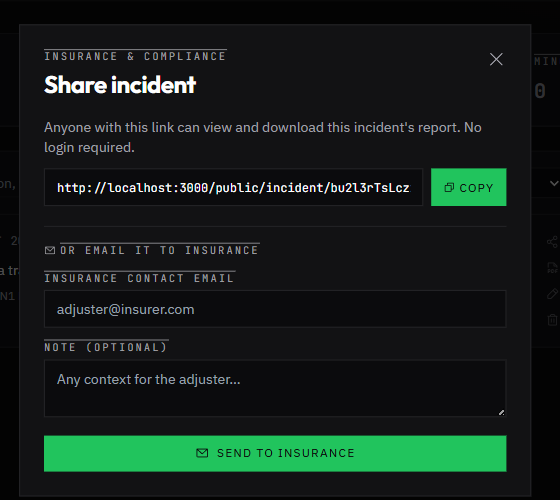
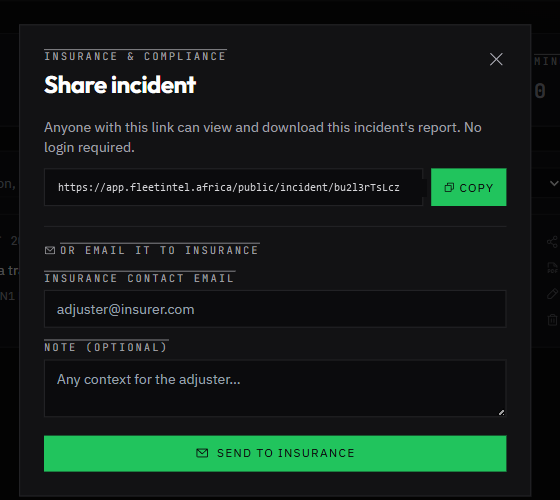
Constrain the marketing site's measure, rhythm and hero figures
Line length was the main problem: 8 of 16 body paragraphs ran past 85
characters a line and the worst hit ~153, because section headings
carried a max-width while the paragraphs under them did not. Nothing
capped the page either, so copy kept widening with the viewport --
1223px at a 1440px window, 1703px at 1920px. Every section wrapper now
sits in a 1440px shell and body copy is capped in ch, which brings the
worst case to 82 characters and holds it there at any window size.

Constraining the measure left "Why FleetIntel" with an empty right half,
which read as a gap rather than breathing room next to the full-width
feature grid, so its heading moves into its own sticky column.

Vertical rhythm ran on five different values (40/80/96/112px); it now
uses two -- 112px for sections, 48px for the industries strip.

The hero's KPI panel counted up and then back down to zero every six
seconds, so roughly 40% of the time a fleet-cost product was advertising
"R213 total monthly cost" and "0% utilization" -- it was captured that
way during review. It now ramps once and holds the settled figures.

Also: the "Share incident" screenshot showed a http://localhost:3000
link at full size on the live site; it now shows the real app domain.
The logo's sub-10px tagline is hidden below sm where it was illegible,
and the mobile scroll cue moves below the hero graphic, since pointing
"down" from above it was pointing at content still on screen.

Changed region(s): [[0.0911, 0.36, 0.7286, 0.39]]

diff --git a/marketing/src/components/DashboardMotionGraphic.jsx b/marketing/src/components/DashboardMotionGraphic.jsx
@@ -2,14 +2,15 @@ import { useEffect, useRef } from "react";
 
 // A live-rendered stand-in for a hero "video" -- real dashboard-shaped motion (KPI tiles counting
 // up, gauges filling, a trend line drawing in) rather than an actual video file. No file to record,
-// encode, host, or keep in sync with the real app; loops perfectly by construction; effectively free
-// to load. Values are illustrative UI chrome, not asserted as real product claims (matches the
-// existing signature cost-spike card's "+18% vs last month" treatment) -- this is a motion graphic
-// of the kind of thing the dashboard shows, not a screenshot standing in as evidence.
+// encode, host, or keep in sync with the real app; effectively free to load. Values are illustrative
+// UI chrome, not asserted as real product claims (matches the existing signature cost-spike card's
+// "+18% vs last month" treatment) -- this is a motion graphic of the kind of thing the dashboard
+// shows, not a screenshot standing in as evidence. They still need to be plausible, though: this is
+// the first number a visitor reads, so it has to look like a real fleet's month.
 //
-// One shared timeline drives everything (count-up, gauge fill, chart draw happen together, then hold,
-// then reset) rather than several independently-looping pieces -- the same "one coordinated effect,
-// not five competing rhythms" reasoning as the rest of this site's motion.
+// One shared timeline drives everything (count-up, gauge fill and chart draw happen together) rather
+// than several independently-looping pieces -- the same "one coordinated effect, not five competing
+// rhythms" reasoning as the rest of this site's motion.
 const TILES = [
   { label: "Total monthly cost", value: 84300, prefix: "R", format: (n) => Math.round(n).toLocaleString(), gauge: 0.62 },
   { label: "Cost per vehicle", value: 3240, prefix: "R", format: (n) => Math.round(n).toLocaleString(), gauge: 0.45 },
@@ -17,10 +18,13 @@ const TILES = [
   { label: "Fleet utilization", value: 87, prefix: "", suffix: "%", format: (n) => Math.round(n), gauge: 0.87 },
 ];
 
-const CYCLE_MS = 6000;
+// Ramps up once on mount and then holds the settled figures, rather than looping back down to zero
+// every few seconds. The loop it replaced spent roughly 40% of each cycle mid-ramp or counting back
+// down, so a visitor arriving at the wrong moment met a fleet-cost product advertising "R213 total
+// monthly cost" and "0% utilization" -- captured exactly that way during a review. The entrance
+// motion is the part worth having; the reset only risked making the product look broken. The status
+// dot keeps pulsing, so the panel still reads as live.
 const RAMP_MS = 1400; // count-up / fill / draw
-const HOLD_MS = 3600; // steady, just the status dot pulsing
-// remainder of CYCLE_MS is a quick fade back to zero before the next loop
 
 const CHART_POINTS = "0,38 14,32 28,34 42,22 56,26 70,14 84,18 100,6";
 
@@ -48,17 +52,8 @@ export default function DashboardMotionGraphic() {
     const easeOut = (t) => 1 - Math.pow(1 - t, 3);
 
     const tick = (now) => {
-      const elapsed = (now - start) % CYCLE_MS;
-      let progress;
-      if (elapsed < RAMP_MS) {
-        progress = easeOut(elapsed / RAMP_MS);
-      } else if (elapsed < RAMP_MS + HOLD_MS) {
-        progress = 1;
-      } else {
-        // quick fade back to 0 to close the loop cleanly
-        const fadeT = (elapsed - RAMP_MS - HOLD_MS) / (CYCLE_MS - RAMP_MS - HOLD_MS);
-        progress = 1 - easeOut(fadeT);
-      }
+      const elapsed = now - start;
+      const progress = elapsed < RAMP_MS ? easeOut(elapsed / RAMP_MS) : 1;
 
       TILES.forEach((t, i) => {
         const v = t.value * progress;
@@ -66,7 +61,7 @@ export default function DashboardMotionGraphic() {
         if (gaugeRefs.current[i]) gaugeRefs.current[i].style.strokeDashoffset = String(100 - t.gauge * progress * 100);
       });
       if (chartRef.current) chartRef.current.style.strokeDashoffset = String(100 - progress * 100);
-      if (dotRef.current) dotRef.current.style.opacity = elapsed < RAMP_MS + HOLD_MS ? String(0.5 + 0.5 * Math.sin(elapsed / 260)) : "0.3";
+      if (dotRef.current) dotRef.current.style.opacity = String(0.5 + 0.5 * Math.sin(elapsed / 260));
 
       raf = requestAnimationFrame(tick);
     };

diff --git a/marketing/src/components/WhyFleetIntel.jsx b/marketing/src/components/WhyFleetIntel.jsx
@@ -18,28 +18,35 @@ const POINTS = [
 export default function WhyFleetIntel() {
   return (
     <section id="why" className="border-b" style={{ borderColor: "var(--color-border)" }}>
-      <div className="px-6 md:px-12 lg:px-20 py-20 md:py-28">
-        <Reveal>
-          <div className="eyebrow mb-3">Why FleetIntel</div>
-          <h2 className="font-display font-bold text-3xl md:text-4xl tracking-tight max-w-xl mb-14">
-            Built for how fleet costing actually happens.
-          </h2>
-        </Reveal>
-        <div className="space-y-10">
-          {POINTS.map((p, i) => (
-            <Reveal key={p.title} delayMs={i * 120}>
-              <div
-                className="group grid md:grid-cols-[auto_1fr] gap-6 md:gap-10 items-start -mx-4 px-4 py-3 rounded-lg transition-colors duration-300 hover:[background:var(--color-surface)]"
-                data-testid={`why-${i}`}
-              >
-                <div className="font-mono text-sm transition-opacity duration-300 opacity-70 group-hover:opacity-100" style={{ color: "var(--color-primary)" }}>{String(i + 1).padStart(2, "0")}</div>
-                <div>
-                  <h3 className="font-display font-bold text-xl mb-2">{p.title}</h3>
-                  <p className="leading-relaxed" style={{ color: "var(--color-muted)" }}>{p.body}</p>
+      <div className="mx-auto w-full max-w-[1440px] px-6 md:px-12 lg:px-20 py-20 md:py-28">
+        {/* Two columns from lg up. Constraining the body copy to a readable measure (it used to run
+            ~150 characters a line) left the right half of this section empty, which read as a gap
+            rather than as breathing room -- every other section on the page fills the width. Moving
+            the heading into its own column uses that space deliberately, and keeps it in view while
+            you read all three points. */}
+        <div className="lg:grid lg:grid-cols-[minmax(0,4fr)_minmax(0,7fr)] lg:gap-16 xl:gap-24">
+          <Reveal className="lg:sticky lg:top-28 lg:self-start">
+            <div className="eyebrow mb-3">Why FleetIntel</div>
+            <h2 className="font-display font-bold text-3xl md:text-4xl tracking-tight max-w-xl lg:max-w-none mb-14 lg:mb-0">
+              Built for how fleet costing actually happens.
+            </h2>
+          </Reveal>
+          <div className="space-y-10">
+            {POINTS.map((p, i) => (
+              <Reveal key={p.title} delayMs={i * 120}>
+                <div
+                  className="group grid md:grid-cols-[auto_1fr] gap-6 md:gap-10 items-start -mx-4 px-4 py-3 rounded-lg transition-colors duration-300 hover:[background:var(--color-surface)]"
+                  data-testid={`why-${i}`}
+                >
+                  <div className="font-mono text-sm transition-opacity duration-300 opacity-70 group-hover:opacity-100" style={{ color: "var(--color-primary)" }}>{String(i + 1).padStart(2, "0")}</div>
+                  <div>
+                    <h3 className="font-display font-bold text-xl mb-2">{p.title}</h3>
+                    <p className="leading-relaxed max-w-[68ch]" style={{ color: "var(--color-muted)" }}>{p.body}</p>
+                  </div>
                 </div>
-              </div>
-            </Reveal>
-          ))}
+              </Reveal>
+            ))}
+          </div>
         </div>
       </div>
     </section>

diff --git a/marketing/src/components/Hero.jsx b/marketing/src/components/Hero.jsx
@@ -39,7 +39,7 @@ export default function Hero() {
         style={{ background: "linear-gradient(to right, var(--color-bg) 0%, var(--color-bg) 38%, color-mix(in oklab, var(--color-bg) 55%, transparent) 60%, transparent 85%)" }}
       />
 
-      <div className="relative px-6 md:px-12 lg:px-20 py-20 md:py-32">
+      <div className="relative mx-auto w-full max-w-[1440px] px-6 md:px-12 lg:px-20 py-20 md:py-32">
         <div
           className={`max-w-xl transition-[opacity,translate] duration-700 ease-out ${
             mounted ? "opacity-100 translate-y-0" : "opacity-0 translate-y-4"
@@ -81,23 +81,22 @@ export default function Hero() {
             Works offline. Syncs the moment signal returns.
           </p>
 
+          {/* Mobile fallback: the graphic stacks below the text instead of bleeding behind it. */}
+          <div className="md:hidden mt-8">
+            <div className="eyebrow mb-3">Fleet cost intelligence · Africa</div>
+            <DashboardMotionGraphic />
+          </div>
+
           {/* Mobile-only scroll cue, in-flow rather than fixed to the viewport bottom like the
-              desktop ScrollPrompt -- on mobile the stacked layout below (graphic under the text)
-              means a fixed-bottom element lands right on top of the graphic instead of empty space.
-              Sitting in normal flow here avoids that collision entirely and scrolls away with the
-              page once the visitor starts scrolling, same practical effect without the fixed-position
-              fight. */}
+              desktop ScrollPrompt -- a fixed-bottom element would land on top of the stacked graphic
+              instead of empty space. It sits after the graphic because that's the actual bottom of
+              the hero: pointing "down" from above the graphic told you to scroll past content that
+              was still on screen. */}
           <div className="md:hidden mt-8 flex items-center gap-3" aria-hidden="true">
             <div className="w-6 h-8 rounded-full border flex justify-center p-1.5" style={{ borderColor: "var(--color-muted)" }}>
               <div className="w-1 h-2 rounded-full animate-scroll-dot" style={{ background: "var(--color-primary)" }} />
             </div>
             <span className="eyebrow">Scroll</span>
-          </div>
-
-          {/* Mobile fallback: the graphic stacks below the text instead of bleeding behind it. */}
-          <div className="md:hidden mt-6">
-            <div className="eyebrow mb-3">Fleet cost intelligence · Africa</div>
-            <DashboardMotionGraphic />
           </div>
         </div>
       </div>

diff --git a/marketing/src/components/Nav.jsx b/marketing/src/components/Nav.jsx
@@ -41,7 +41,7 @@ export default function Nav() {
         borderColor: isScrolled ? "var(--color-border)" : "transparent",
       }}
     >
-      <div className="px-6 md:px-12 lg:px-20 py-4 flex items-center justify-between">
+      <div className="mx-auto w-full max-w-[1440px] px-6 md:px-12 lg:px-20 py-4 flex items-center justify-between">
         <a href="/" className="flex items-center gap-2.5">
           <div className="w-7 h-7 rounded-md flex items-center justify-center shrink-0" style={{ background: "var(--color-primary)" }}>
             <svg width="14" height="14" viewBox="0 0 24 24" fill="none">
@@ -51,7 +51,7 @@ export default function Nav() {
           <span className="flex flex-col leading-none">
             <span className="font-display font-bold text-lg tracking-tight">FleetIntel</span>
             <span
-              className="font-display font-semibold text-[10px] tracking-tight mt-1"
+              className="hidden sm:block font-display font-semibold text-[10px] tracking-tight mt-1"
               style={{ color: "var(--color-muted)" }}
               data-testid="nav-slogan"
             >

diff --git a/marketing/src/components/Scenarios.jsx b/marketing/src/components/Scenarios.jsx
@@ -60,7 +60,7 @@ export default function Scenarios() {
 
   return (
     <section id="how-it-works" className="border-b" style={{ borderColor: "var(--color-border)" }}>
-      <div className="px-6 md:px-12 lg:px-20 py-20 md:py-28">
+      <div className="mx-auto w-full max-w-[1440px] px-6 md:px-12 lg:px-20 py-20 md:py-28">
         <Reveal>
           <div className="eyebrow mb-3">How it works</div>
           <h2 className="font-display font-bold text-3xl md:text-4xl tracking-tight max-w-xl mb-16">
@@ -81,7 +81,7 @@ export default function Scenarios() {
                   {item.tag}
                 </div>
                 <h3 className="font-display font-bold text-2xl mb-3">{item.title}</h3>
-                <p className="text-sm leading-relaxed" style={{ color: "var(--color-muted)" }}>{item.body}</p>
+                <p className="text-sm leading-relaxed max-w-[64ch]" style={{ color: "var(--color-muted)" }}>{item.body}</p>
                 {item.signature && <CostSpikeCard />}
 
                 {/* Mobile only: inline image right under its own block, no sticky panel needed. */}

diff --git a/marketing/src/components/Footer.jsx b/marketing/src/components/Footer.jsx
@@ -3,7 +3,7 @@ const APP_URL = "https://app.fleetintel.africa";
 export default function Footer() {
   return (
     <footer>
-      <div className="px-6 md:px-12 lg:px-20 py-16 flex flex-col md:flex-row md:items-end justify-between gap-8">
+      <div className="mx-auto w-full max-w-[1440px] px-6 md:px-12 lg:px-20 py-16 flex flex-col md:flex-row md:items-end justify-between gap-8">
         <div>
           <div className="flex items-center gap-2.5 mb-4">
             <div className="w-6 h-6 rounded-md flex items-center justify-center" style={{ background: "var(--color-primary)" }}>
@@ -29,7 +29,7 @@ export default function Footer() {
         </div>
       </div>
       <div className="border-t" style={{ borderColor: "var(--color-border)" }}>
-        <div className="px-6 md:px-12 lg:px-20 py-6 eyebrow">
+        <div className="mx-auto w-full max-w-[1440px] px-6 md:px-12 lg:px-20 py-6 eyebrow">
           © {new Date().getFullYear()} FleetIntel. All rights reserved.
         </div>
       </div>

diff --git a/marketing/src/components/Showcase.jsx b/marketing/src/components/Showcase.jsx
@@ -5,7 +5,7 @@ import Reveal from "./Reveal";
 export default function Showcase() {
   return (
     <section className="border-b" style={{ borderColor: "var(--color-border)" }}>
-      <Reveal className="px-6 md:px-12 lg:px-20 py-20 md:py-24">
+      <Reveal className="mx-auto w-full max-w-[1440px] px-6 md:px-12 lg:px-20 py-20 md:py-28">
         <div className="eyebrow mb-3">See it in action</div>
         <h2 className="font-display font-bold text-3xl md:text-4xl tracking-tight max-w-xl mb-10">
           The view your executives actually check.

diff --git a/marketing/src/components/KpiDashboard.jsx b/marketing/src/components/KpiDashboard.jsx
@@ -8,7 +8,7 @@ import Reveal from "./Reveal";
 export default function KpiDashboard() {
   return (
     <section className="border-b" style={{ borderColor: "var(--color-border)" }}>
-      <Reveal className="px-6 md:px-12 lg:px-20 py-20 md:py-24">
+      <Reveal className="mx-auto w-full max-w-[1440px] px-6 md:px-12 lg:px-20 py-20 md:py-28">
         <div className="eyebrow mb-3">See it in action</div>
         <h2 className="font-display font-bold text-3xl md:text-4xl tracking-tight max-w-xl mb-4">
           Dashboard.

diff --git a/marketing/src/components/ConversionBand.jsx b/marketing/src/components/ConversionBand.jsx
@@ -6,7 +6,7 @@ import Reveal from "./Reveal";
 export default function ConversionBand() {
   return (
     <section className="border-b" style={{ borderColor: "var(--color-border)" }}>
-      <Reveal className="px-6 md:px-12 lg:px-20 py-20 text-center">
+      <Reveal className="mx-auto w-full max-w-[1440px] px-6 md:px-12 lg:px-20 py-20 md:py-28 text-center">
         <h2 className="font-display font-bold text-3xl md:text-4xl tracking-tight mb-8">
           See your fleet's real costs. Book a call.
         </h2>

diff --git a/marketing/src/components/Features.jsx b/marketing/src/components/Features.jsx
@@ -30,7 +30,7 @@ const FEATURES = [
 export default function Features() {
   return (
     <section id="features" className="border-b" style={{ borderColor: "var(--color-border)" }}>
-      <div className="px-6 md:px-12 lg:px-20 py-20 md:py-28">
+      <div className="mx-auto w-full max-w-[1440px] px-6 md:px-12 lg:px-20 py-20 md:py-28">
         <Reveal>
           <div className="eyebrow mb-3">What's inside</div>
           <h2 className="font-display font-bold text-3xl md:text-4xl tracking-tight max-w-xl mb-14">

diff --git a/marketing/src/components/Industries.jsx b/marketing/src/components/Industries.jsx
@@ -12,7 +12,7 @@ const INDUSTRIES = [
 export default function Industries() {
   return (
     <section className="border-b" style={{ borderColor: "var(--color-border)" }}>
-      <Reveal className="px-6 md:px-12 lg:px-20 py-10">
+      <Reveal className="mx-auto w-full max-w-[1440px] px-6 md:px-12 lg:px-20 py-12">
         <div className="eyebrow mb-4">Built for</div>
         <div className="flex flex-wrap gap-3">
           {INDUSTRIES.map((i) => (
